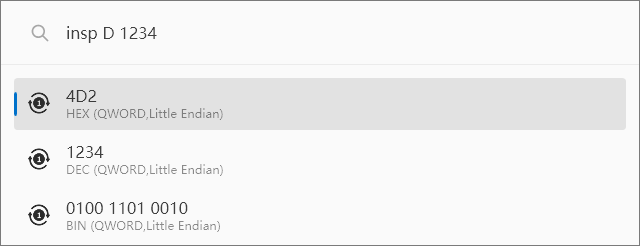
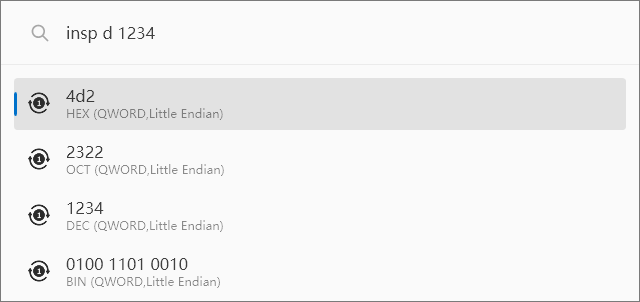
Update README

diff --git a/README.md b/README.md
@@ -24,9 +24,22 @@ The base can be one of the following values:
 - `d` or `D`: Decimal
 - `h` or `H`: Hexadecimal
 
+Or use
+
+    insp {input}
+
+In this case, the input should be a string that follows the rules below:
+
+- A string starting with `0x` will be considered hexadecimal
+- A string starting with `0b` will be considered binary
+- A string starting with `0` will be considered octal
+- Otherwise, it will be considered decimal
+
 ### Example Usage
 
-![Example](./Images/examples/ep1.png)
+![](./Images/examples/ep1.png)
+
+![](./Images/examples/ep2.png)
 
 Clicking or pressing `Enter` will copy the conversion result to the clipboard.
 

diff --git a/README_ZH-CN.md b/README_ZH-CN.md
@@ -24,9 +24,23 @@
 - `d`或`D`：十进制
 - `h`或`H`：十六进制
 
+或者使用
+
+    insp {输入}
+
+此时输入应为一个符合以下规则的字符串
+
+- 以`0x`开头的字符串会被认为是十六进制
+- 以`0b`开头的字符串会被认为是二进制
+- 以`0`开头的字符串会被认为是八进制
+- 其他情况会被认为是十进制
+
+
 ### 使用演示
 
 ![](./Images/examples/ep1.png)
+
+![](./Images/examples/ep2.png)
 
 点击或按下`Enter`会将转换结果复制到剪贴板中。
 
